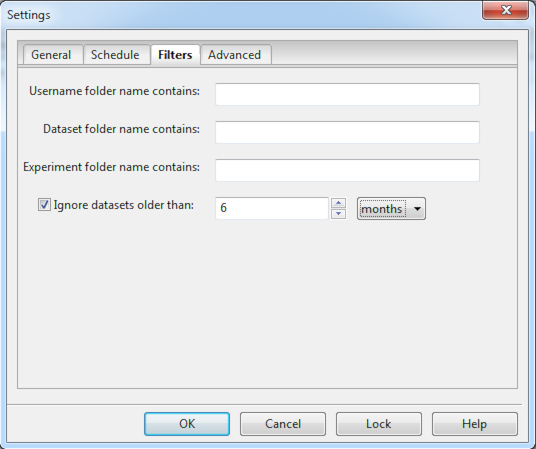
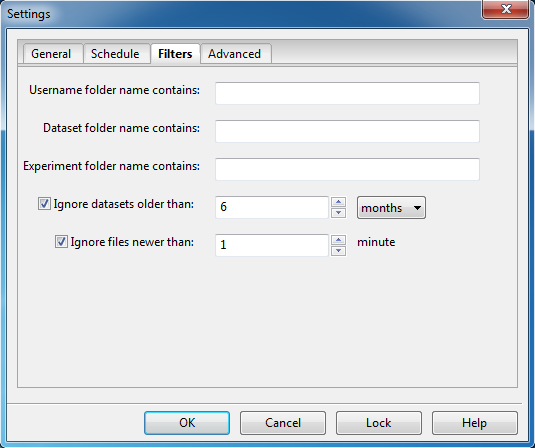
Making interval for ignoring recently modified files configurable.

diff --git a/mydata/views/settings.py b/mydata/views/settings.py
@@ -5,6 +5,7 @@ Classes for MyData's settings dialog.
 # Disabling some Pylint checks for now...
 # pylint: disable=missing-docstring
 # pylint: disable=too-many-lines
+# pylint: disable=too-many-statements
 # pylint: disable=no-member
 
 from datetime import datetime
@@ -573,6 +574,37 @@ class SettingsDialog(wx.Dialog):
         self.filtersPanelSizer.Add(wx.StaticText(self.filtersPanel,
                                                  wx.ID_ANY, ""))
 
+        self.ignoreFilesNewerThanCheckBox = \
+            wx.CheckBox(self.filtersPanel, wx.ID_ANY,
+                        "Ignore files newer than:")
+        self.Bind(wx.EVT_CHECKBOX, self.OnIgnoreNewFilesCheckBox,
+                  self.ignoreFilesNewerThanCheckBox)
+        self.filtersPanelSizer.Add(self.ignoreFilesNewerThanCheckBox,
+                                   flag=wx.ALIGN_RIGHT | wx.ALL, border=5)
+
+        self.ignoreFilesIntervalPanel = wx.Panel(self.filtersPanel)
+        self.ignoreFilesPanelSizer = wx.BoxSizer(wx.HORIZONTAL)
+        self.ignoreFilesIntervalPanel.SetSizer(self.ignoreFilesPanelSizer)
+
+        self.ignoreFilesNewerThanSpinCtrl = \
+            wx.SpinCtrl(self.ignoreFilesIntervalPanel, wx.ID_ANY,
+                        "1", min=0, max=999)
+        self.Bind(wx.EVT_SPINCTRL, self.OnIgnoreNewFilesSpinCtrl,
+                  self.ignoreFilesNewerThanSpinCtrl)
+        self.ignoreFilesNewerThanSpinCtrl.Enable(False)
+        self.ignoreFilesPanelSizer.Add(self.ignoreFilesNewerThanSpinCtrl,
+                                       flag=wx.EXPAND | wx.ALL, border=5)
+        self.showingSingularMinutes = True
+        self.ignoreFilesIntervalUnitLabel = \
+           wx.StaticText(self.ignoreFilesIntervalPanel, wx.ID_ANY, "minute")
+        self.ignoreFilesPanelSizer.Add(self.ignoreFilesIntervalUnitLabel,
+                                       flag=wx.EXPAND | wx.ALL, border=5)
+
+        self.filtersPanelSizer.Add(self.ignoreFilesIntervalPanel, flag=wx.EXPAND,
+                                   border=5)
+        self.filtersPanelSizer.Add(wx.StaticText(self.filtersPanel,
+                                                 wx.ID_ANY, ""))
+
         self.filtersPanel.Fit()
         self.settingsTabsNotebook.AddPage(self.filtersPanel, "Filters")
 
@@ -999,6 +1031,18 @@ class SettingsDialog(wx.Dialog):
     def SetIgnoreOldDatasetIntervalUnit(self, ignoreOldDatasetIntervalUnit):
         self.intervalUnitsComboBox.SetValue(ignoreOldDatasetIntervalUnit)
 
+    def IgnoreNewFiles(self):
+        return self.ignoreFilesNewerThanCheckBox.GetValue()
+
+    def SetIgnoreNewFiles(self, ignoreNewFiles):
+        self.ignoreFilesNewerThanCheckBox.SetValue(ignoreNewFiles)
+
+    def GetIgnoreNewFilesMinutes(self):
+        return self.ignoreFilesNewerThanSpinCtrl.GetValue()
+
+    def SetIgnoreNewFilesMinutes(self, ignoreNewFilesMinutes):
+        self.ignoreFilesNewerThanSpinCtrl.SetValue(ignoreNewFilesMinutes)
+
     # Advanced tab
 
     def GetFolderStructure(self):
@@ -1154,6 +1198,16 @@ class SettingsDialog(wx.Dialog):
             self.showingSingularUnits = True
         self.SetIgnoreOldDatasetIntervalUnit(
             settingsModel.GetIgnoreOldDatasetIntervalUnit())
+        self.SetIgnoreNewFiles(settingsModel.IgnoreNewFiles())
+        self.SetIgnoreNewFilesMinutes(settingsModel.GetIgnoreNewFilesMinutes())
+        if settingsModel.IgnoreNewFiles():
+            self.ignoreFilesNewerThanSpinCtrl.Enable(True)
+        if int(settingsModel.GetIgnoreNewFilesMinutes()) == 1:
+            self.showingSingularMinutes = True
+            self.ignoreFilesIntervalUnitLabel.SetLabel("minute")
+        else:
+            self.showingSingularMinutes = False
+            self.ignoreFilesIntervalUnitLabel.SetLabel("minutes")
 
         # Advanced tab
         self.SetFolderStructure(settingsModel.GetFolderStructure())
@@ -1252,6 +1306,32 @@ class SettingsDialog(wx.Dialog):
                     .AppendItems(self.intervalUnitsPlural)
                 self.intervalUnitsComboBox.SetValue(intervalUnitValue + 's')
                 self.showingSingularUnits = False
+        event.Skip()
+
+    def OnIgnoreNewFilesCheckBox(self, event):
+        if event.IsChecked():
+            self.ignoreFilesNewerThanSpinCtrl.SetValue(1)
+            self.ignoreFilesNewerThanSpinCtrl.Enable(True)
+            if not self.showingSingularMinutes:
+                self.showingSingularMinutes = True
+            self.ignoreFilesIntervalUnitLabel.SetLabel("minute")
+        else:
+            self.ignoreFilesNewerThanSpinCtrl.SetValue(0)
+            self.ignoreFilesNewerThanSpinCtrl.Enable(False)
+            if not self.showingSingularMinutes:
+                self.showingSingularMinutes = False
+            self.ignoreFilesIntervalUnitLabel.SetLabel("minutes")
+        event.Skip()
+
+    def OnIgnoreNewFilesSpinCtrl(self, event):
+        if event.GetInt() == 1:
+            if not self.showingSingularMinutes:
+                self.ignoreFilesIntervalUnitLabel.SetLabel("minute")
+                self.showingSingularMinutes = True
+        else:
+            if self.showingSingularMinutes:
+                self.ignoreFilesIntervalUnitLabel.SetLabel("minutes")
+                self.showingSingularMinutes = False
         event.Skip()
 
     # pylint: disable=no-self-use

diff --git a/mydata/models/settings.py b/mydata/models/settings.py
@@ -142,6 +142,8 @@ class SettingsModel(object):
         self.ignore_old_datasets = False
         self.ignore_interval_number = 0
         self.ignore_interval_unit = "months"
+        self.ignore_new_files = True
+        self.ignore_new_files_minutes = 1
 
         self.folder_structure = "Username / Dataset"
         self.dataset_grouping = ""
@@ -208,6 +210,8 @@ class SettingsModel(object):
         self.ignore_old_datasets = False
         self.ignore_interval_number = 0
         self.ignore_interval_unit = "months"
+        self.ignore_new_files = True
+        self.ignore_new_files_minutes = 1
 
         # Advanced tab
         self.folder_structure = "Username / Dataset"
@@ -263,6 +267,16 @@ class SettingsModel(object):
                     self.ignore_interval_number = \
                         configParser.getint(configFileSection,
                                             "ignore_interval_number")
+                if configParser.has_option(configFileSection,
+                                           "ignore_new_files"):
+                    self.ignore_new_files = \
+                        configParser.getboolean(configFileSection,
+                                                "ignore_new_files")
+                if configParser.has_option(configFileSection,
+                                           "ignore_new_files_minutes"):
+                    self.ignore_new_files_minutes = \
+                        configParser.getint(configFileSection,
+                                            "ignore_new_files_minutes")
                 if configParser.has_option(configFileSection,
                                            "max_upload_threads"):
                     self.max_upload_threads = \
@@ -363,7 +377,7 @@ class SettingsModel(object):
                 for setting in settingsFromServer:
                     self.__dict__[setting['key']] = setting['value']
                     if setting['key'] in (
-                            "ignore_old_datasets",
+                            "ignore_old_datasets", "ignore_new_files",
                             "validate_folder_structure",
                             "start_automatically_on_login",
                             "upload_invalid_user_folders",
@@ -376,6 +390,7 @@ class SettingsModel(object):
                             (setting['value'] == "True")
                     if setting['key'] in (
                             "timer_minutes", "ignore_interval_number",
+                            "ignore_new_files_minutes",
                             "max_upload_threads", "max_upload_retries"):
                         self.__dict__[setting['key']] = int(setting['value'])
                     if setting['key'] in (
@@ -638,6 +653,18 @@ class SettingsModel(object):
     def SetIgnoreOldDatasetIntervalUnit(self, ignoreOldDatasetIntervalUnit):
         self.ignore_interval_unit = ignoreOldDatasetIntervalUnit
 
+    def IgnoreNewFiles(self):
+        return self.ignore_new_files
+
+    def SetIgnoreNewFiles(self, ignoreNewFiles):
+        self.ignore_new_files = ignoreNewFiles
+
+    def GetIgnoreNewFilesMinutes(self):
+        return self.ignore_new_files_minutes
+
+    def SetIgnoreNewFilesMinutes(self, ignoreNewFilesMinutes):
+        self.ignore_new_files_minutes = ignoreNewFilesMinutes
+
     def GetMaxUploadThreads(self):
         return self.max_upload_threads
 
@@ -712,8 +739,9 @@ class SettingsModel(object):
                       "folder_structure",
                       "dataset_grouping", "group_prefix",
                       "ignore_old_datasets", "ignore_interval_number",
-                      "ignore_interval_unit", "max_upload_threads",
-                      "max_upload_retries",
+                      "ignore_interval_unit",
+                      "ignore_new_files", "ignore_new_files_minutes",
+                      "max_upload_threads", "max_upload_retries",
                       "validate_folder_structure", "locked", "uuid",
                       "start_automatically_on_login",
                       "upload_invalid_user_folders"]
@@ -764,8 +792,9 @@ class SettingsModel(object):
             settingsDialog.GetIgnoreOldDatasetIntervalNumber())
         self.SetIgnoreOldDatasetIntervalUnit(
             settingsDialog.GetIgnoreOldDatasetIntervalUnit())
-        self.SetMaxUploadThreads(settingsDialog.GetMaxUploadThreads())
-        self.SetMaxUploadRetries(settingsDialog.GetMaxUploadRetries())
+        self.SetIgnoreNewFiles(settingsDialog.IgnoreNewFiles())
+        self.SetIgnoreNewFilesMinutes(
+            settingsDialog.GetIgnoreNewFilesMinutes())
 
         # Advanced tab
         self.SetFolderStructure(settingsDialog.GetFolderStructure())
@@ -777,6 +806,8 @@ class SettingsModel(object):
             settingsDialog.StartAutomaticallyOnLogin())
         self.SetUploadInvalidUserFolders(
             settingsDialog.UploadInvalidUserFolders())
+        self.SetMaxUploadThreads(settingsDialog.GetMaxUploadThreads())
+        self.SetMaxUploadRetries(settingsDialog.GetMaxUploadRetries())
 
         self.SetLocked(settingsDialog.Locked())
 

diff --git a/mydata/controllers/uploads.py b/mydata/controllers/uploads.py
@@ -94,8 +94,13 @@ class UploadDatafileRunnable(object):
         dataFileDirectory = \
             self.folderModel.GetDataFileDirectory(self.dataFileIndex)
 
-        thirtySeconds = 30
-        if (time.time() - os.path.getmtime(dataFilePath)) <= thirtySeconds:
+        ignoreNewFiles = self.settingsModel.IgnoreNewFiles()
+        ignoreNewFilesMinutes = self.settingsModel.GetIgnoreNewFilesMinutes()
+        ignoreNewFilesSeconds = 0
+        if ignoreNewFiles:
+            ignoreNewFilesSeconds = ignoreNewFilesMinutes * 60
+        if (time.time() - os.path.getmtime(dataFilePath)) <= \
+                ignoreNewFilesSeconds:
             message = "Not uploading file, in case it is still being modified."
             logger.warning(message.replace('file', dataFilePath))
             self.uploadModel.SetMessage(message)

diff --git a/docs/source/settings.rst b/docs/source/settings.rst
@@ -133,6 +133,11 @@ Filters
   is advisable to instruct MyData to ignore old datasets so that it focus on
   uploading the recent datasets.
 
+**Ignore files newer than**
+  MyData can ignore recently modified files.  MyTardis does not yet support
+  file versioning, so once a file has been uploaded and verified, it will not
+  be replaced by a newer version.  Therefore, it is important to ensure that
+  a file doesn't get uploaded while it is still being modified.
 
 .. _settings-dialog-advanced:
 
